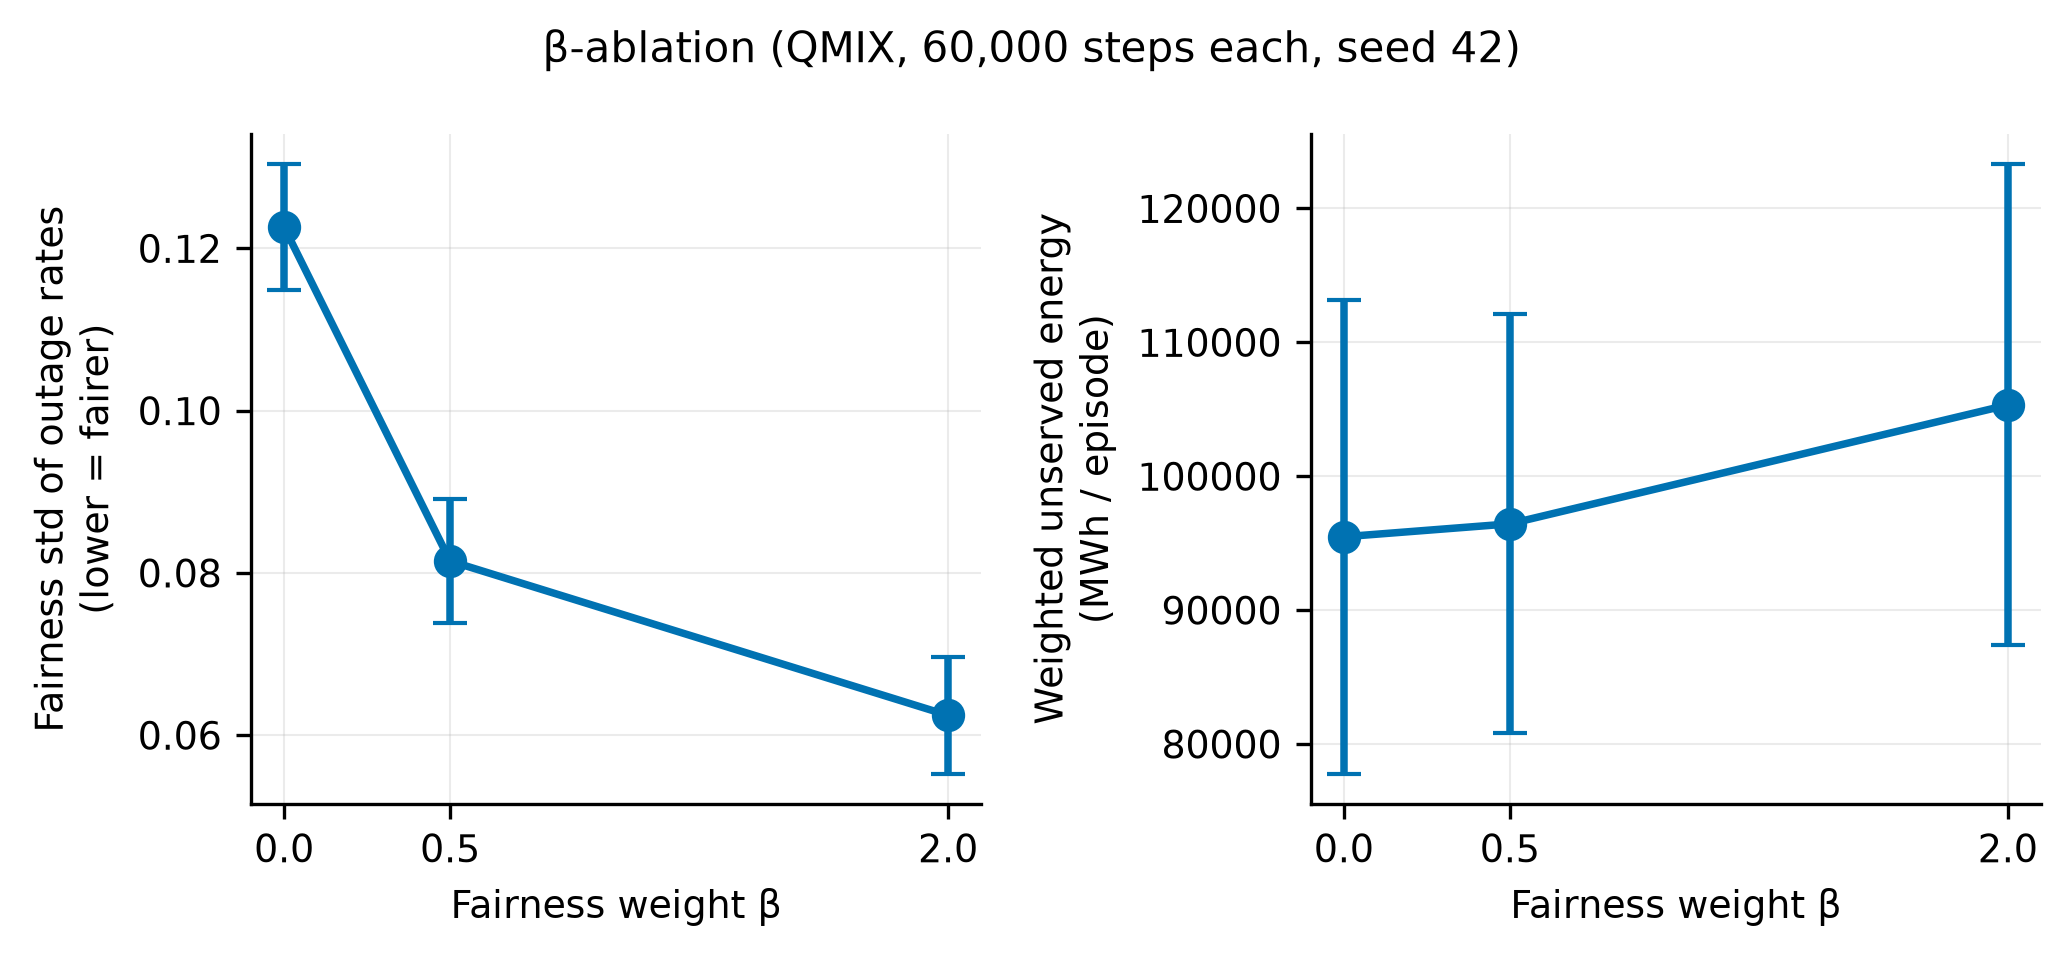
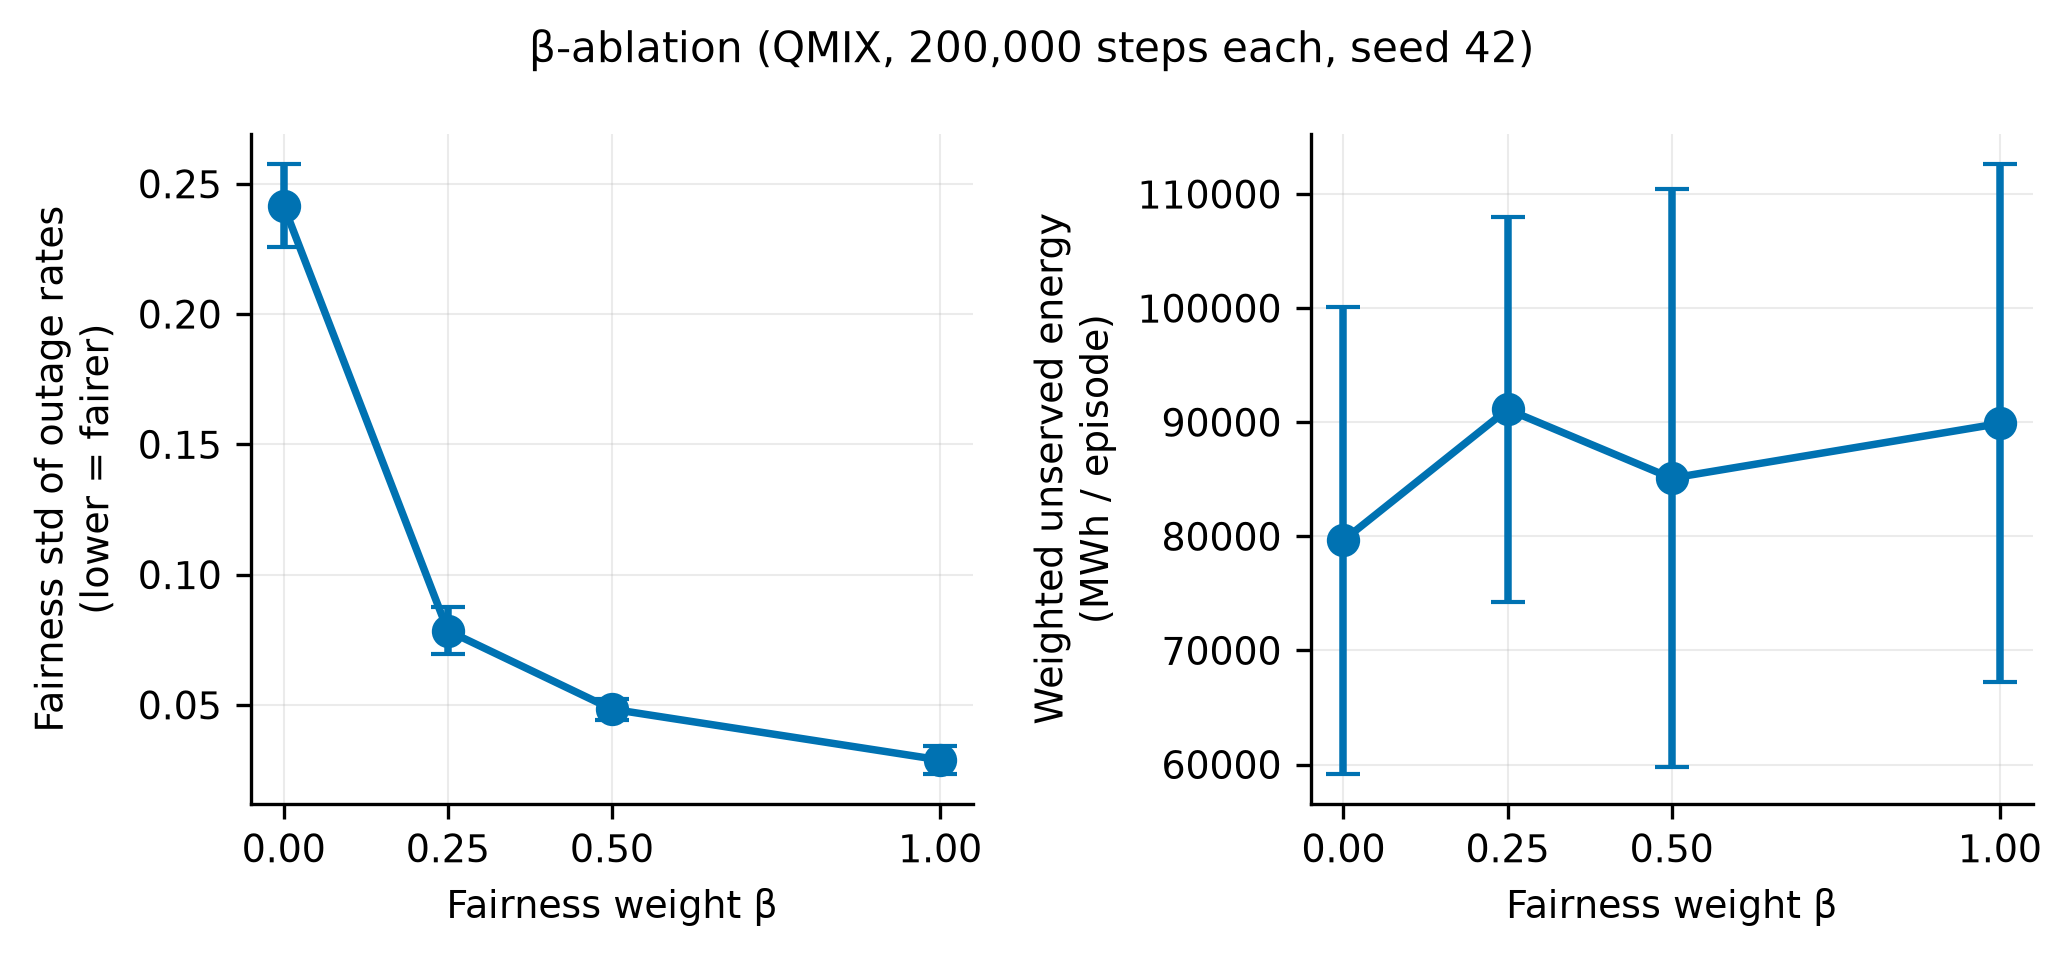
Beta sweep {0,0.25,0.5,1.0} @ 200k on QMIX + final figures and report numbers
- sigma_fair strictly monotone in beta: 0.2416 -> 0.0785 -> 0.0484 -> 0.0289
  (Jain 0.638 -> 0.924 -> 0.955 -> 0.986)
- WUE rises from beta=0 but is non-monotone within beta>0 (79.6k -> 91.1k ->
  85.1k -> 89.9k; wiggles ~5k vs episode std ~17-25k) — reported as measured
  in ablation_beta.md, not massaged
- report_numbers.md: occupation framing, no feasibility filter, verified
  RR=FR explanation, all numbers machine-generated (incl. LSTM MAE from
  checkpoint metadata)
- pareto figure: hollow-marker flag applied uniformly to all policies
- trained qmix.pt mixer re-verified: monotone (min grad 0.09), IGM 8/8
- tests 8/8 (also on a fresh clone)

Claude-Session: https://claude.ai/code/session_01FGioSkE8Xv7vNq8aLYaKBK

diff --git a/results/report_numbers.md b/results/report_numbers.md
@@ -1,41 +1,45 @@
 # Report numbers — single source of truth
 
-Generated from `all_policies_metrics.csv` (env: commit `1f98eb7`, config `ecf46c850ae8`, supply = 2000 MW, protocol: 5 episodes x 3 seeds, eps=0).
+Generated from `all_policies_metrics.csv` (env: commit `b2bb661`, config `ecf46c850ae8`, supply = 2000 MW, protocol: 5 episodes x 4 seeds, eps=0).
 **Never copy numbers into the report from anywhere else.**
 
 ## Main results table
 
 | Policy | WUE (MWh/ep) | Fairness std | Jain index | Worst-zone outage (h) | Residual deficit (MW) | Return |
 |---|---|---|---|---|---|---|
-| NoShedding | 0 ± 0 | 0.000 ± 0.000 | 1.000 ± 0.000 | 0.0 ± 0.0 | 636.9 ± 127.2 | -161.1 ± 47.9 |
-| Random | 182323 ± 6404 | 0.025 ± 0.010 | 0.997 ± 0.002 | 90.9 ± 3.0 | 21.0 ± 14.6 | -87.5 ± 5.5 |
-| RoundRobin | 70904 ± 2459 | 0.003 ± 0.000 | 1.000 ± 0.000 | 33.3 ± 0.8 | 204.4 ± 80.2 | -82.7 ± 23.2 |
-| Priority | 70703 ± 15682 | 0.379 ± 0.028 | 0.487 ± 0.045 | 157.3 ± 7.3 | 0.0 ± 0.0 | -61.0 ± 8.1 |
-| Proportional | 133598 ± 18629 | 0.000 ± 0.000 | 1.000 ± 0.000 | 60.7 ± 7.7 | 0.0 ± 0.0 | -52.5 ± 7.1 |
-| FairRotation | 70904 ± 2459 | 0.003 ± 0.000 | 1.000 ± 0.000 | 33.3 ± 0.8 | 204.4 ± 80.2 | -82.7 ± 23.2 |
-| IDQN | 95970 ± 16284 | 0.144 ± 0.013 | 0.813 ± 0.042 | 78.7 ± 3.0 | 31.7 ± 11.1 | -56.9 ± 6.5 |
-| VDN | 93449 ± 15781 | 0.079 ± 0.007 | 0.931 ± 0.013 | 65.5 ± 6.1 | 36.6 ± 10.5 | -52.0 ± 8.0 |
-| QMIX | 79143 ± 17983 | 0.075 ± 0.003 | 0.913 ± 0.021 | 58.2 ± 8.6 | 69.5 ± 17.4 | -51.7 ± 9.0 |
+| NoShedding | 0 ± 0 | 0.000 ± 0.000 | 1.000 ± 0.000 | 0.0 ± 0.0 | 632.4 ± 141.5 | -158.7 ± 52.5 |
+| Random | 181161 ± 7516 | 0.025 ± 0.009 | 0.997 ± 0.002 | 90.3 ± 3.3 | 22.2 ± 16.0 | -87.3 ± 6.0 |
+| RoundRobin | 70925 ± 2987 | 0.003 ± 0.000 | 1.000 ± 0.000 | 33.1 ± 0.8 | 202.5 ± 90.2 | -82.0 ± 25.9 |
+| Priority | 70180 ± 17529 | 0.377 ± 0.029 | 0.483 ± 0.048 | 156.4 ± 7.4 | 0.0 ± 0.0 | -60.5 ± 8.9 |
+| Proportional | 132972 ± 20733 | 0.000 ± 0.000 | 1.000 ± 0.000 | 60.1 ± 8.2 | 0.0 ± 0.0 | -52.2 ± 7.9 |
+| FairRotation | 70925 ± 2987 | 0.003 ± 0.000 | 1.000 ± 0.000 | 33.1 ± 0.8 | 202.5 ± 90.2 | -82.0 ± 25.9 |
+| IDQN | 85017 ± 21243 | 0.148 ± 0.017 | 0.788 ± 0.061 | 84.0 ± 0.0 | 66.4 ± 14.4 | -59.2 ± 8.5 |
+| VDN | 85467 ± 16602 | 0.085 ± 0.008 | 0.901 ± 0.024 | 67.8 ± 3.6 | 49.2 ± 21.6 | -51.2 ± 10.0 |
+| QMIX | 85100 ± 25995 | 0.048 ± 0.004 | 0.955 ± 0.018 | 53.1 ± 8.2 | 58.8 ± 16.5 | -50.0 ± 8.9 |
 
 ## Headline (RQ1 & RQ2) — use this framing verbatim
 
-**RQ1 (does the gap exist):** No fixed-rule baseline is simultaneously efficient, fair and feasible: Priority reaches 70703 MWh WUE but with Jain 0.487 (persistently unfair), while RoundRobin reaches Jain 1.000 but leaves 204 MW mean residual deficit (uncontrolled outages) and Proportional pays 133598 MWh WUE for its fairness.
+**RQ1 (does the gap exist):** Every fixed-rule baseline concedes at least one axis. Priority is efficient (WUE 70180 MWh) and leaves 0 MW residual deficit, but is persistently unfair (Jain 0.483). RoundRobin/FairRotation are perfectly fair (Jain 1.000) at comparable WUE (70925 MWh), but only by leaving 203 MW of mean uncontrolled residual deficit — unmet load that never enters WUE. Proportional is fair (Jain 1.000) with 0 MW residual deficit, but pays 132972 MWh WUE (1.9× Priority) for it. The (low-WUE, high-Jain, low-residual) region is empty of baselines.
 
-**RQ2 (can learned policies occupy the gap):** QMIX (best return -51.7 ± 9.0) attains WUE 79143 ± 17983 MWh with Jain 0.913 ± 0.021 and residual deficit 69.5 MW — i.e. it occupies a region of the efficiency–fairness plane no baseline reaches. This is a Pareto **occupation** claim, not domination: individual baselines still win on single metrics (Priority on WUE alone, rotation schemes on fairness alone).
+**RQ2 (can learned policies occupy the gap):** QMIX attains WUE 85100 ± 25995 MWh (1.21× Priority, 0.64× Proportional) with Jain 0.955 ± 0.018 (vs Priority's 0.483) and 59 MW residual deficit (vs RoundRobin's 203 MW), plus the best mean return of all nine policies (-50.0 ± 8.9). It therefore *occupies* the previously empty region of the efficiency–fairness frontier. This is an occupation claim, NOT dominance: Priority remains better on WUE alone and the rotation schemes on fairness alone; no learned agent beats every baseline on every metric.
 
-- Best *feasible* baseline on WUE alone: Priority (70702.506); infeasible baselines (residual deficit > 25 MW) excluded.
-- Best *feasible* baseline on Jain index alone: Proportional (1.000); infeasible baselines (residual deficit > 25 MW) excluded.
-- VDN vs QMIX: QMIX > VDN on return here (-51.7 vs -52.0); report as an empirical, task-dependent finding (Papoudakis et al. 2021).
+*Note on identical rows:* RoundRobin and FairRotation produce identical metrics because they reduce to the same shed sequence: both shed exactly one full zone per deficit-hour, both observe the same exogenous deficit sequence (actions do not feed back into demand or supply), and FairRotation's least-shed-first selection with ties broken by lowest zone index collapses to a fixed cycle — after every full rotation all cumulative outage counts are equal again. Verified empirically across supply levels and seeds.
 
-## β-ablation (QMIX, 60,000 steps each, seed 42)
+- VDN vs QMIX: QMIX > VDN on return here (-50.0 vs -51.2); report as an empirical, task-dependent finding (Papoudakis et al. 2021).
+- Learned-family ordering on return: QMIX > VDN > IDQN — consistent with credit assignment richness (none → additive → monotonic).
 
-| β | WUE (MWh/ep) | Fairness std | Jain index |
+## β-ablation (QMIX, 200,000 steps per point, seed 42)
+
+| β | WUE (MWh/ep) | σ_fair | Jain index |
 |---|---|---|---|
-| 0 | 95483 ± 17694 | 0.1226 ± 0.0077 | 0.870 ± 0.025 |
-| 0.5 | 96447 ± 15640 | 0.0815 ± 0.0077 | 0.922 ± 0.022 |
-| 2 | 105326 ± 17961 | 0.0625 ± 0.0072 | 0.956 ± 0.017 |
+| 0 | 79650 ± 20453 | 0.2416 ± 0.0158 | 0.638 ± 0.070 |
+| 0.25 | 91126 ± 16904 | 0.0785 ± 0.0089 | 0.924 ± 0.022 |
+| 0.5 | 85100 ± 25337 | 0.0484 ± 0.0040 | 0.955 ± 0.018 |
+| 1 | 89895 ± 22701 | 0.0289 ± 0.0053 | 0.986 ± 0.004 |
+
+See `results/ablation_beta.md` for the full table and the monotonicity direction check.
 
 ## Supporting numbers
 
-- LSTM forecaster per-zone val MAE (MW): see `models/saved_models/lstm.pt` metadata and `results/figures/forecaster_validation.png` (mean 13.8 MW; Accra at its ~22 MW irreducible noise floor).
+- LSTM forecaster per-zone val MAE (MW): Greater Accra 21.8, Ashanti 16.8, Western 12.6, Volta 8.5, Northern 9.2 (mean 13.8; read from lstm.pt metadata). Greater Accra sits at its irreducible multiplicative-noise floor.
 - Historical pre-rebuild numbers (IDQN return −16.13, WUE 162 MWh; central DQN WUE 3203 MWh) are from an incompatible env version — HISTORICAL ONLY, never in comparison tables (Hard Rule 1).

diff --git a/results/ablation_beta.md b/results/ablation_beta.md
@@ -1,0 +1,18 @@
+# β-ablation summary
+
+Agent: QMIX · 200,000 steps per point · seed 42 · supply = 2000 MW · 5 episodes x 4 seeds, eps=0
+(β = 0.5 point reuses the main checkpoint — identical seed/config/code path.)
+
+| β | WUE (MWh/ep) | σ_fair (outage-rate std) | Jain index | Worst-zone outage (h) | Return |
+|---|---|---|---|---|---|
+| 0 | 79650 ± 20453 | 0.2416 ± 0.0158 | 0.638 ± 0.070 | 110.5 ± 7.4 | -41.0 ± 9.4 |
+| 0.25 | 91126 ± 16904 | 0.0785 ± 0.0089 | 0.924 ± 0.022 | 66.7 ± 4.9 | -47.7 ± 8.8 |
+| 0.5 | 85100 ± 25337 | 0.0484 ± 0.0040 | 0.955 ± 0.018 | 53.1 ± 8.0 | -50.0 ± 8.7 |
+| 1 | 89895 ± 22701 | 0.0289 ± 0.0053 | 0.986 ± 0.004 | 48.2 ± 9.8 | -51.3 ± 10.7 |
+
+## Direction check (reported as measured, not massaged)
+
+- σ_fair monotonically non-increasing in β: **True** (0.2416 → 0.0785 → 0.0484 → 0.0289)
+- WUE monotonically non-decreasing in β: **False** (79650 → 91126 → 85100 → 89895)
+
+At least one direction is NOT monotone at this budget/seed — treat the deviation as a finding (single-seed noise is the first suspect; std columns above give the scale) and report it as such.
